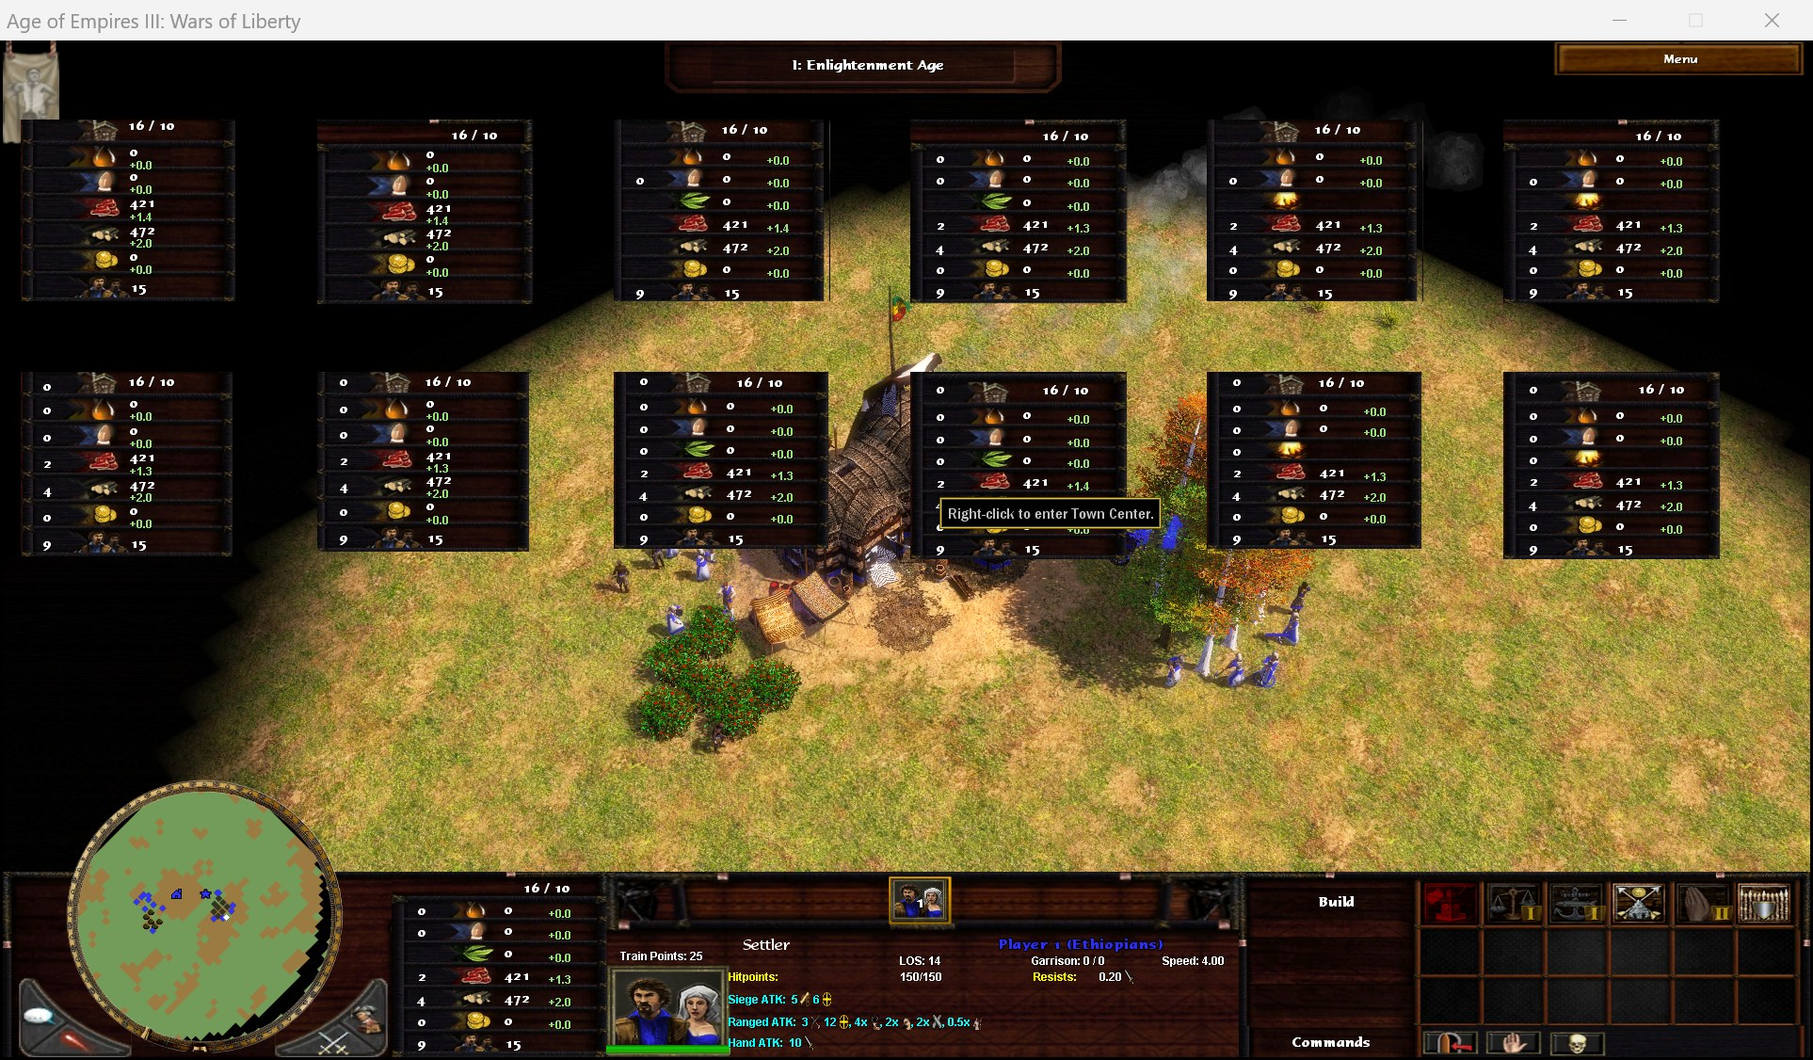
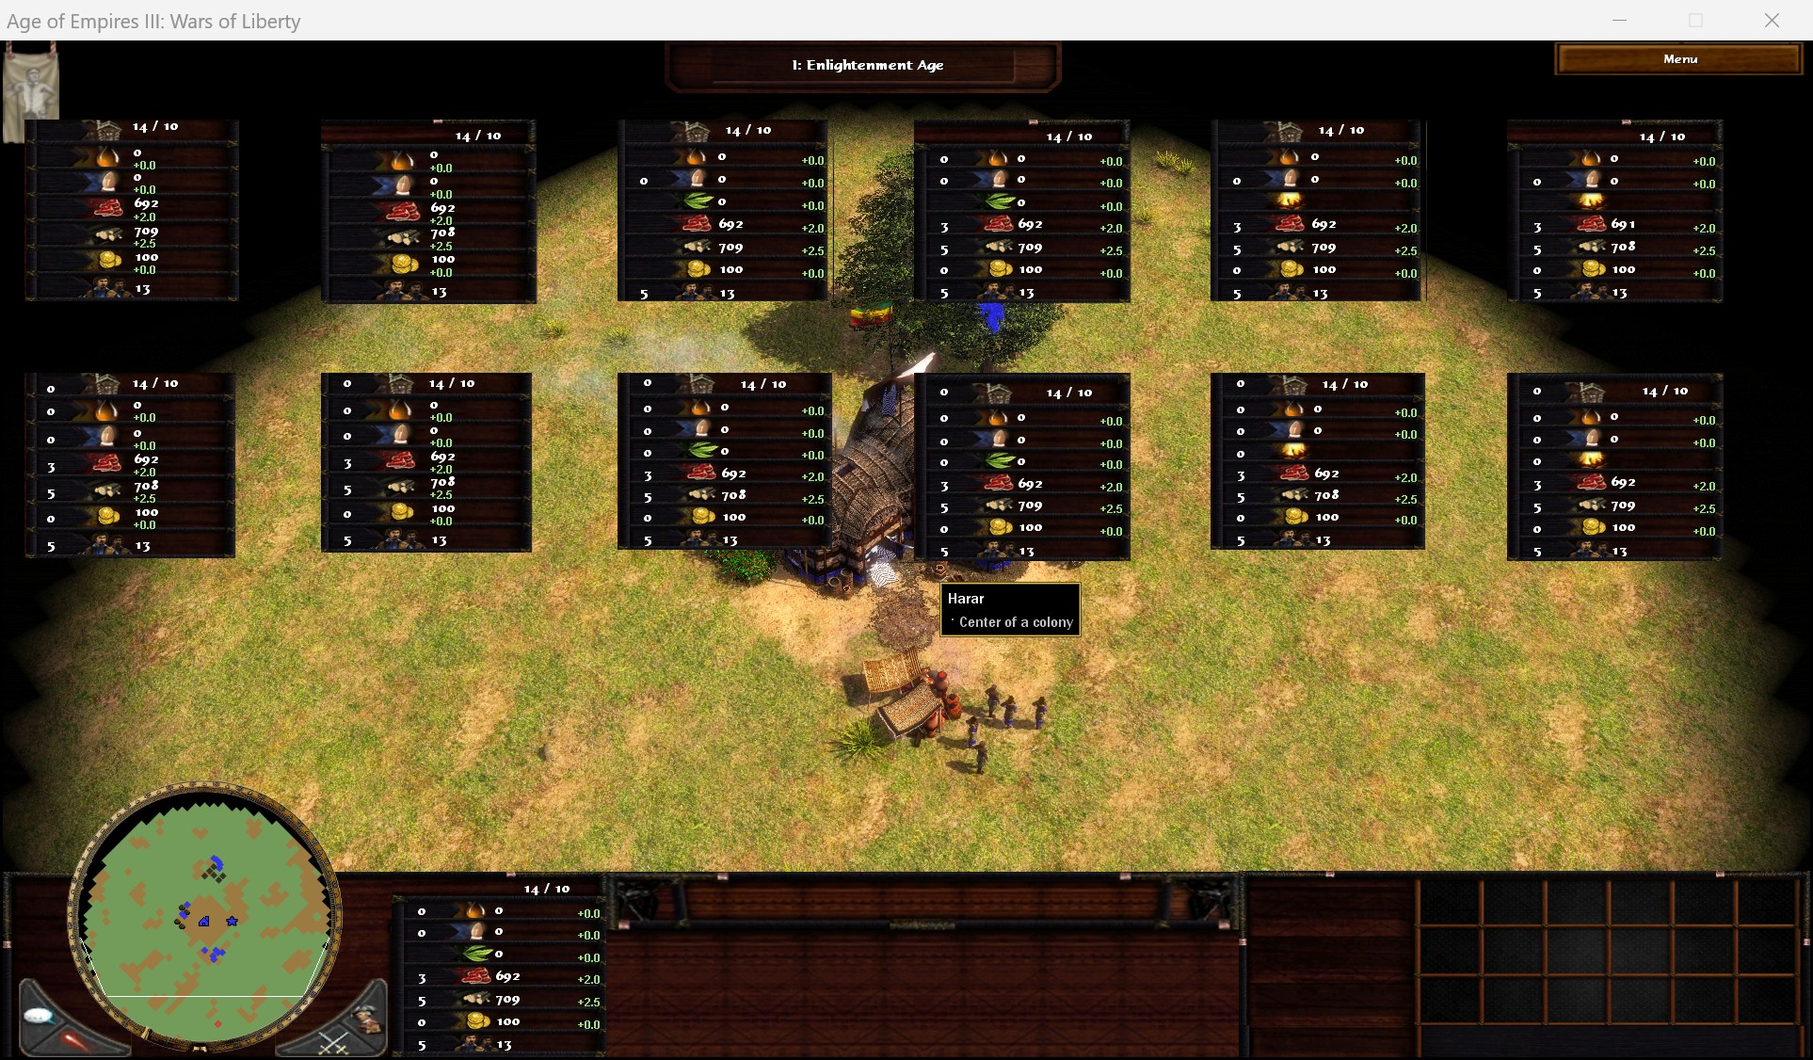
#105 oil panel --rates: the rate set to the panel's right edge where it sits beside the amount
make_layout.py add_rates: in the panels too low for two lines (the 7-row Asian and Native panels with faith,
the advanced Native panel) the income rate is right-aligned to the panel's inner edge and the amounts' column
(with the villager count and dance value) moves 5 units toward the icons, so 8-digit stocks keep clear of it
(JTMaston). Layouts regenerated (only those gadgets change); tested with every resource at 99,999,992 and gold
at 9 digits; ingame-12-*-after.jpg taken again. Approved by the user.

Claude-Session: https://claude.ai/code/session_01GGKAnWzN5jTKNpJ5oBoixZ

diff --git a/wol-fixes/faith-panel/make_layout.py b/wol-fixes/faith-panel/make_layout.py
@@ -38,7 +38,9 @@ techGadgets swaps them by the tech GreatWarizeALL. With --no-faith, rows.json mu
 ({uhcIncome(<resource>)}, green, smaller), and the row's tooltip gets a second line (strings 1010111 to 1010116,
 written by wol-fixes\\oil-panel\\apply_fix.py --rates). A panel whose every row has room for two lines puts the
 income under the amount; one with a lower row (the 7-row Asian and Native panels with faith, WoL's advanced Native
-panel) puts it in a column right of the amount. The amount stays at NumbersFont 12 (at 11 the game draws another face).
+panel) puts it right of the amount, set to the panel's right edge, with the amounts' column a little closer to the icons
+(2026-11-25), so an amount of 8 digits keeps clear of it. The amount stays at NumbersFont 12 (at 11 the game draws
+another face).
 """
 import hashlib
 import json
@@ -328,7 +330,12 @@ RATE_IDS = {"food": 1010111, "wood": 1010112, "gold": 1010113, "fame": 1010114, 
 RATE_COLOR = "150 225 120"
 RATE_UNDER_MIN = 15        # every row body of a panel at least this high (1024 x 768 units): the rate under the amount
 RATE_ROOMY = 19            # and from this high the rate a size bigger (10, else 9)
-RATE_COLUMN = 25           # a panel with a lower row: the rate in a column this far right of the amount, a little lower
+RATE_COLUMN = 25           # a panel with a lower row: the rate's box starts this far right of the amount, a little lower,
+RATE_EDGE = 5              # and ends this far inside the panel's right edge, its text set to the right (textjustifyright);
+AMOUNT_LEFT = 5            # the amounts (and the other numbers of that column) this much closer to the icons. The amount
+                           # (left) and the rate (right) grow away from each other: an amount of 8 digits keeps clear of
+                           # the rate (#105, 2026-11-25: seen in game with 99,999,992 and 100,000,000)
+COLUMN_VALUES = ("{numUnits(AbstractVillager)}", "{danceQuickValue}")   # in the amounts' column: moved with them
 # The amount keeps NumbersFont 12: at 11 the game draws another, thinner face (seen in game).
 
 VALUE = re.compile(r'<gadget\b[^>]*>\{resource\((\w+)\)\}</gadget>')
@@ -341,6 +348,9 @@ def add_rates(v):
     heights = [int(attr(m.group(0), "size1024").split()[3]) - int(attr(m.group(0), "size1024").split()[1])
                for m in VALUE.finditer(v) if m.group(1) in RATE_IDS]
     low = min(heights) if heights else 0
+    right = int(attr(TAG.match(v).group(0), "size1024").split()[2]) - RATE_EDGE    # the panel's inner right edge
+    column = low < RATE_UNDER_MIN
+    column_x = set()
     out, last = [], 0
     for m in VALUE.finditer(v):
         res = m.group(1)
@@ -350,12 +360,15 @@ def add_rates(v):
         x0, y0, x1, y1 = (int(q) for q in attr(tag, "size1024").split())
         h = y1 - y0
         size, rate_size = "12", "10" if low >= RATE_ROOMY else "9"
-        if low >= RATE_UNDER_MIN:          # amount in the upper part, rate in the lower part, same column
+        justify = ""
+        if not column:                     # amount in the upper part, rate in the lower part, same column
             amount = (x0, y0 + round(h * 0.5) - 12, x1, y0 + round(h * 0.5) + 2)
             rate = (x0, y0 + round(h * 0.5), x1, y0 + round(h * 0.5) + 12)
-        else:                              # too low for two lines: the rate in a column right of the amount
-            amount = (x0, y0 - 1, x1, y1 - 1)
-            rate = (x0 + RATE_COLUMN, y0 + round(h * 0.3), x1 + 8, y1 + 2)
+        else:                              # too low for two lines: the rate right of the amount, set to the right
+            amount = (x0 - AMOUNT_LEFT, y0 - 1, x1, y1 - 1)
+            rate = (x0 + RATE_COLUMN, y0 + round(h * 0.3), right, y1 + 2)
+            justify = 'textjustifyright="" '
+            column_x.add(x0)
         new_tag = set_attr(set_attr(tag, "size1024", " ".join(str(q) for q in amount)), "textfontsize", size)
         ls = v.rfind("\n", 0, m.start()) + 1
         indent = v[ls:m.start()] if v[ls:m.start()].strip() == "" else ""
@@ -363,11 +376,20 @@ def add_rates(v):
         rate_gadget = (f'<gadget name="uhcIncome-{res}" type="formatText" mouseovertext="$${RATE_IDS[res]}$$" '
                        f'anchortooltiptopright="" size1024="{" ".join(str(q) for q in rate)}" donthighlight="" '
                        f'datarefreshrate="100" textcolor="{RATE_COLOR}" textfont="NumbersFont" textfontsize="{rate_size}" '
-                       f'textcentervert="" z="{z}" background="">+{{uhcIncome({res})}}</gadget>')
+                       f'textcentervert="" {justify}z="{z}" background="">+{{uhcIncome({res})}}</gadget>')
         out.append(v[last:m.start()] + new_tag + v[m.start() + len(tag):m.end()] + nl + indent + rate_gadget)
         last = m.end()
     out.append(v[last:])
     v = "".join(out)
+    if column_x:                           # the other numbers of the amounts' column move with them
+
+        def shift(m):
+            x0, y0, x1, y1 = (int(q) for q in attr(m.group(1), "size1024").split())
+            if x0 not in column_x:
+                return m.group(0)
+            return set_attr(m.group(1), "size1024", f"{x0 - AMOUNT_LEFT} {y0} {x1} {y1}") + m.group(2)
+        v = re.sub(r'(<gadget\b[^>]*type="formatText"[^>]*>)(%s)' % "|".join(re.escape(c) for c in COLUMN_VALUES),
+                   shift, v)
     # the tooltips of every gadget of a resource's row (its label button, its count, its amount)
     def tip(m):
         tag = m.group(1)

diff --git a/docs/wol-requests.md b/docs/wol-requests.md
@@ -312,7 +312,7 @@ WoL's Middle East civs.
 | 102 | "The current gatling camel model is very crude. Take the zamburak's model as the base, replace its weapon with the rotating part and the trunnion of the American gatling, and animate it; in-game animations can be used as inspiration." From JTMaston (2026-11-24). | art / data | Replaces today's `GatlingCamel` (static gun, wood frame, gunner on foot). aoe3-blender-tools' `tools/make_gun_camel.py` (branch `claude/r1124-gatling-camel`): the zamburak camel with its swivel gun cut out (29 triangles; its post kept as the mount), the stock Gatling's casing with trunnion, barrels, crank and magazine as rigid parts on their own bones at 0.55 of its size, hung on `ATTACHPOINT` with `syncanims`, `bone_launchpoint` at the muzzle; the rider cranks it (IK), the barrels spin, the camel lowers its head at the gun. Previews approved by the user (model sheet, A saddle, B deployed, move, gaze; four rounds of fixes). Pack [`wol-fixes/gatling-camel`](../wol-fixes/gatling-camel/README.txt) (apply / `--check` / `--restore`, README EN/ES): `GatlingCamel` gets the new anim file and `GatlingCamelSaddle.tactics` (fires from the saddle, like the zamburak; stats, cards and strings unchanged); new `GatlingCamelDeployed` (copy of `GatlingCamel`, strings 690950-690952, `GatlingCamelDeployed.tactics`: deploy 5.33 s, undeploy 4.17 s): the camel lies down (the game's lying-down clips of its rig, turned upright), the gunner gets off step by step and fires on foot. After the user's review of the first films (2026-11-23), three bugs fixed: the camel's left legs drawn lifted (the stock clips' leg mirrors copied in the clips' own axes; now converted and checked bone by bone against the stock clips, 1e-7), the gun left in the air on death (then it turned on itself while the corpse faded; now the dead unit is the camel model with the gun built in, playing the stock camel deaths, so it falls and fades with the camel), the "giant" Gatling of the control (today's WoL model). In game the tool needed three fixes: the packed vertex stream 16-byte aligned (else the camel is not drawn), the gun hung on the rider's bone (on `HS Bone Chest` it drew tipped up), the gun's tangents kept (else it drew far too bright). Tested in WoLReal6: both units idle, walk, attack (shots from the muzzle), reload, deploy/undeploy, deaths, selection and HP bar, save/load, a Saudi skirmish against a German AI (no XS error); filmed with today's unit as the control ([guide](modding-guide.md#the-gatling-camel)). Second round (2026-11-23): walk, jog and run of both units mounted, the deploy, the undeploy and remount, the three deaths to the end of the fade, filmed close and checked frame by frame; movement video `gatlingCamel-move-wol`. Open: how `GatlingCamelDeployed` is obtained, its stats, whether the old model stays as an option. | confirmed in WoL (2026-11-23, single player); questions to JTMaston |
 | 103 | "Oil display": a variation of the interface where oil is not displayed, used before the Great War; the current one, with oil, only after it. From JTMaston (2026-11-24). | DLL / UI / art | **DLL (agent K):** new generic key [`techGadgets <Tech> <GadgetAfter> [<GadgetBefore>]`](modding-guide.md#techgadgets) (repeatable): before the tech is active for the shown player (`[game+3C0h]`), GadgetBefore shown and GadgetAfter hidden; after, the reverse. The tech is read every 100 ms of game time in the world update (0x94AF27, ID by name 0x600BE1, again after each data load); the gadgets are found by name in any panel (0x433A2C, gadgetReal's lookup, `uigadgets.*` `FindAnywhere`) and set from Direct3D's Present every frame (also while paused), only when their flags `[gadget+0A4h]` are in the wrong state. For WoL: `GreatWarizeALL` (every route to the Great War activates it; the engine age does not change), one line per `SettlerCountDialog` variant (12). The engine's variant choice shows or hides the variant, never its children. Tested in WoLReal4 with a test layout in all 12 variants: preGW before, postGW at once when a trigger set `GreatWarButton` (which activated `GreatWarizeALL`), after save and load (also while the loaded game is paused), Asian and European panels; key off: the layout's default. Videos `techGadgets-wol`, `techGadgets-wol-control` (test layout). Not tested: the full/minimized switch inside one game (the option is read at startup; each variant has its own children), observer mode (multiplayer only; its UI files are `uimainnewobserver*.xml`). **Art and layout (agent P):** `wol-fixes/oil-panel`, notes at merge. Panel part (agent P): pack `wol-fixes/oil-panel/`. Each of the 12 `SettlerCountDialog` variants holds two full panels, `<variant>-postGW` (today's, shown) and `<variant>-preGW` (no oil row, the other rows spread over its space, hidden); the DLL key `techGadgets` (agent K) swaps them by `GreatWarizeALL` (12 cfg lines). Without the key the panel is today's. Backgrounds `*_pregw.ddt` beside WoL's (aoe3-blender-tools `panel_rows.py`: a dropped row, `keep_bars`, `icon_scale_max` 1.1), with and without the faith row; `faith-panel/make_layout.py --oil-gw`; `apply_fix.py` [--faith] [--rates] / --check / --restore. The engine's own name lookups (0x433812 from 0x762480..0x762780: `SettlerCountDialog-idle`, `-idleLabel`, the 12 variants) find the first match, so postGW comes first. In game (WoL copy, 2026-11-24, K's build): all 12 variants side by side (a test layout) before and after the tech, with and without faith; the engine's panel in the minimized and the big UI swaps within 0.2 s; save/load after GW keeps oil; the engine never re-showed a hidden panel (no `set again` line). Video `oilPanel-wol` and control `oilPanel-wol-control` (key off: oil all along). **Agent U, 2026-11-25 (JTMaston: what would a themed UI per culture cost?):** measured, nothing built. REA: the engine switches only the resource panel by culture (FUN_00454F2F, 12 hardcoded variant names, Nat / Asi / Eur by the native and Asian civ tests; three looks, no fourth). A synthetic copy of the whole in-game UI x 8 cultures in hidden holders with techGadgets: textures load only when a gadget is first shown (+~10 MB for 8 hidden copies, +14 MB for one shown, +34 MB for all 8), no measurable fps or load change, the key 0.4-4 us per frame with 8 lines; one line per nested gadget (792) made frames take seconds (names not found, looked up every 2 s). Report: [ui-per-culture-cost-20261125.txt](../wol-fixes/ui-per-culture-cost-20261125.txt). | done in game (single player; panel approved by the user 2026-11-24); questions to JTMaston |
 | 104 | "Before proceeding with this change, we would like to know the performance impact of dividing the aiWoLMain file from ai4 into one file per culture: American, Anglo, European, African, MiddleEastern, Asian, Polynesian, NativeAmerican, NationState." From JTMaston (2026-11-24). | measurement | Measured, nothing delivered ([performance.md, "Splitting the AI script per culture"](performance.md#splitting-the-ai-script-per-culture-2026-11-24)). New tools: `tools/re/time_xs.py` (each XS compile per file and per AI player, CPU and memory; each AI player's rule runs) and `tools/xs_culture_split.py` (files the 480 items of `aiWoLMain.xs` by culture: 32 % of its bytes are culture rules, European 5.3 %; writes simulated splits). New 1v1 and 8-player skirmishes (seven European AIs), two runs per case, in WoLReal8: every AI compiles its own copy (0.7–0.95 s of CPU and 6.2 MB each; 7 AIs about 5 s and 43 MB at the start); a European-only script (the other cultures stubbed) compiles in 60 % of the time and adds 3.9 MB: about 1.9 s less CPU at the start of an 8-player game, within the run-to-run spread of the whole load; the same program in ten included files costs the same as one file (and 2 MB less per AI: memory follows the largest file); per frame nothing changes (all of the AI 3 % of the main thread with 7 AIs, its XS rules under 1 %). Recommendation: split for maintenance, a loader per culture named by each `.personality`, the shared core, `aiWoLMain.xs` kept as the file that includes everything for the scenario scripts that name it. Reply: `wol-fixes/ai-split-cost-20261124.txt`, `wol-fixes/reply-to-maston-20261124-A.txt`. `debugger.py` now drains the debug events queued at detach (one left pending made the game exit). | measured (2026-11-24, single player); answer to JTMaston |
-| 105 | "Global gathering": a display of the global gathering rates like DE's; would it lag in an 8-player game with all villagers gathering and many trickles? From JTMaston (2026-11-24). | DLL / UI | **DE (read-only):** its layout (`UI.bar`, `uimainnew.xaml`) has a collapsed "(+999)" text `<res>_gatherpermin` right of each amount (food, wood, gold, fame; dance, trade, influence), and the option `OptionResourceGatherRate`, "Resource Gather Per Minute"; the code that binds the texts is fn 0xE473D0 of `AoE3DE_s.exe`; the code that fills them (gross or net, window) was not found: a full REA analysis of that exe does not finish (2026-11-05), no reference to `kbGetResourceIncome` or the "1 Minute Income" strings was found by the byte scan, and much of the exe is encrypted. **DLL (agent K):** new key [`incomeRates [<seconds>] [perMinute] [log]`](modding-guide.md#incomerates) and the data ref `{uhcIncome(<resource>)}` (string, per second with one decimal by default, as the user chose; window 20 s of game time). Counted at the single add 0x49A98A (a jmp at its head) when it returns to the gather tick 0x4ED1F3, unit AutoGather 0x4C379D or the global trickle 0x4E0CFE, positive amounts only, plus `CountIncome` from the DLL's own pays (`unitResourceAuras`, the kill bounties, `pillageGold`); per player and resource in 1-second buckets; the shown player's (`[game+3C0h]`), the team's with shared resources (as `{resource()}`, 0x63C807 / 0x4707EC). The ref's argument is the whole token `{uhcincome(food)}`; the name is read between the parentheses as the stock helper 0x453F8F does. kFeatures: after `resourceDebt`, `linkedResource`, `unitResourceAuras`, `pillageGold`. Tested (WoLReal4, `log` compares the counted income with the stockpile every 60 s): wood from 5 villagers 185.4 = +185.4, XP trickle 120.1 = +120.1, a Factory's gold 268.2 = +268.2; videos `incomeRates-wol`, `incomeRates-wol-control` (test layout). **Lag (8 players, 7 European AIs, Acre, `perfprobe.py`, two runs on and two off, 120 s from minute 5):** frames over 50 ms 8 and 6 on, 7 and 9 off (the AIs' own); update time per real second 307 / 259 ms on, 286 / 313 off; main thread 93.5 / 93.7 % on, 92.5 / 92.8 % off (uncapped, always busy); measured inside (`log`): up to 14,200 adds a minute by minute 8, 0.3–0.8 ms a minute counting them (about 13 µs per second of game time). No lag. **Layout (agent P):** "+N.N" under each amount and a tooltip line, at merge. Panel part (agent P): the user chose B + C (2026-11-24): the income per second under each amount, smaller and green, and a second tooltip line "Income: +N.N per second" (strings 1010111 to 1010116, English and Spanish). `make_layout.py --rates` / `oil-panel/apply_fix.py --rates`, with `{uhcIncome(<res>)}` of the key `incomeRates` (agent K). A panel whose rows all have two lines of room puts it under the amount; the 7-row Asian and Native faith panels and WoL's advanced Native panel put it in a column right of the amount. The amount stays NumbersFont 12 (at 11 the game draws a thinner face). In game: values match the key's log (food +2.0, 120.6/min; wood +3.0, 179/min); tooltip line break seen (value checked with K's earlier build only, empty there: fixed by K since). **Agent U, 2026-11-25 (JTMaston: more space between income and stock beyond 7 digits):** make_layout.py --rates sets the rate to the panel's right edge (textjustifyright) and moves the amounts' column 5 units left, in the panels whose rate sits beside the amount (8 of 24 with faith, 1 of 24 without); tested with every resource at 99,999,992 (32-bit floats cannot show 99,999,999) and gold at 9 digits: no overlap. Waiting for the user's approval of the pictures before it goes into the pack. | done in game (single player; layout B + C chosen by the user 2026-11-24, per second; no lag in the 8-player A/B); questions to JTMaston |
+| 105 | "Global gathering": a display of the global gathering rates like DE's; would it lag in an 8-player game with all villagers gathering and many trickles? From JTMaston (2026-11-24). | DLL / UI | **DE (read-only):** its layout (`UI.bar`, `uimainnew.xaml`) has a collapsed "(+999)" text `<res>_gatherpermin` right of each amount (food, wood, gold, fame; dance, trade, influence), and the option `OptionResourceGatherRate`, "Resource Gather Per Minute"; the code that binds the texts is fn 0xE473D0 of `AoE3DE_s.exe`; the code that fills them (gross or net, window) was not found: a full REA analysis of that exe does not finish (2026-11-05), no reference to `kbGetResourceIncome` or the "1 Minute Income" strings was found by the byte scan, and much of the exe is encrypted. **DLL (agent K):** new key [`incomeRates [<seconds>] [perMinute] [log]`](modding-guide.md#incomerates) and the data ref `{uhcIncome(<resource>)}` (string, per second with one decimal by default, as the user chose; window 20 s of game time). Counted at the single add 0x49A98A (a jmp at its head) when it returns to the gather tick 0x4ED1F3, unit AutoGather 0x4C379D or the global trickle 0x4E0CFE, positive amounts only, plus `CountIncome` from the DLL's own pays (`unitResourceAuras`, the kill bounties, `pillageGold`); per player and resource in 1-second buckets; the shown player's (`[game+3C0h]`), the team's with shared resources (as `{resource()}`, 0x63C807 / 0x4707EC). The ref's argument is the whole token `{uhcincome(food)}`; the name is read between the parentheses as the stock helper 0x453F8F does. kFeatures: after `resourceDebt`, `linkedResource`, `unitResourceAuras`, `pillageGold`. Tested (WoLReal4, `log` compares the counted income with the stockpile every 60 s): wood from 5 villagers 185.4 = +185.4, XP trickle 120.1 = +120.1, a Factory's gold 268.2 = +268.2; videos `incomeRates-wol`, `incomeRates-wol-control` (test layout). **Lag (8 players, 7 European AIs, Acre, `perfprobe.py`, two runs on and two off, 120 s from minute 5):** frames over 50 ms 8 and 6 on, 7 and 9 off (the AIs' own); update time per real second 307 / 259 ms on, 286 / 313 off; main thread 93.5 / 93.7 % on, 92.5 / 92.8 % off (uncapped, always busy); measured inside (`log`): up to 14,200 adds a minute by minute 8, 0.3–0.8 ms a minute counting them (about 13 µs per second of game time). No lag. **Layout (agent P):** "+N.N" under each amount and a tooltip line, at merge. Panel part (agent P): the user chose B + C (2026-11-24): the income per second under each amount, smaller and green, and a second tooltip line "Income: +N.N per second" (strings 1010111 to 1010116, English and Spanish). `make_layout.py --rates` / `oil-panel/apply_fix.py --rates`, with `{uhcIncome(<res>)}` of the key `incomeRates` (agent K). A panel whose rows all have two lines of room puts it under the amount; the 7-row Asian and Native faith panels and WoL's advanced Native panel put it in a column right of the amount. The amount stays NumbersFont 12 (at 11 the game draws a thinner face). In game: values match the key's log (food +2.0, 120.6/min; wood +3.0, 179/min); tooltip line break seen (value checked with K's earlier build only, empty there: fixed by K since). **Agent U, 2026-11-25 (JTMaston: more space between income and stock beyond 7 digits):** make_layout.py --rates sets the rate to the panel's right edge (textjustifyright) and moves the amounts' column 5 units left, in the panels whose rate sits beside the amount (8 of 24 with faith, 1 of 24 without); tested with every resource at 99,999,992 (32-bit floats cannot show 99,999,999) and gold at 9 digits: no overlap; approved by the user and in the pack (wol-fixes/oil-panel, 2026-11-25). Estimated, not seen: 9 digits beside a rate of two digits before the point (+12.5) would touch. | done in game (single player; layout B + C chosen by the user 2026-11-24, per second; no lag in the 8-player A/B); questions to JTMaston |
 
 ## Items left
 
